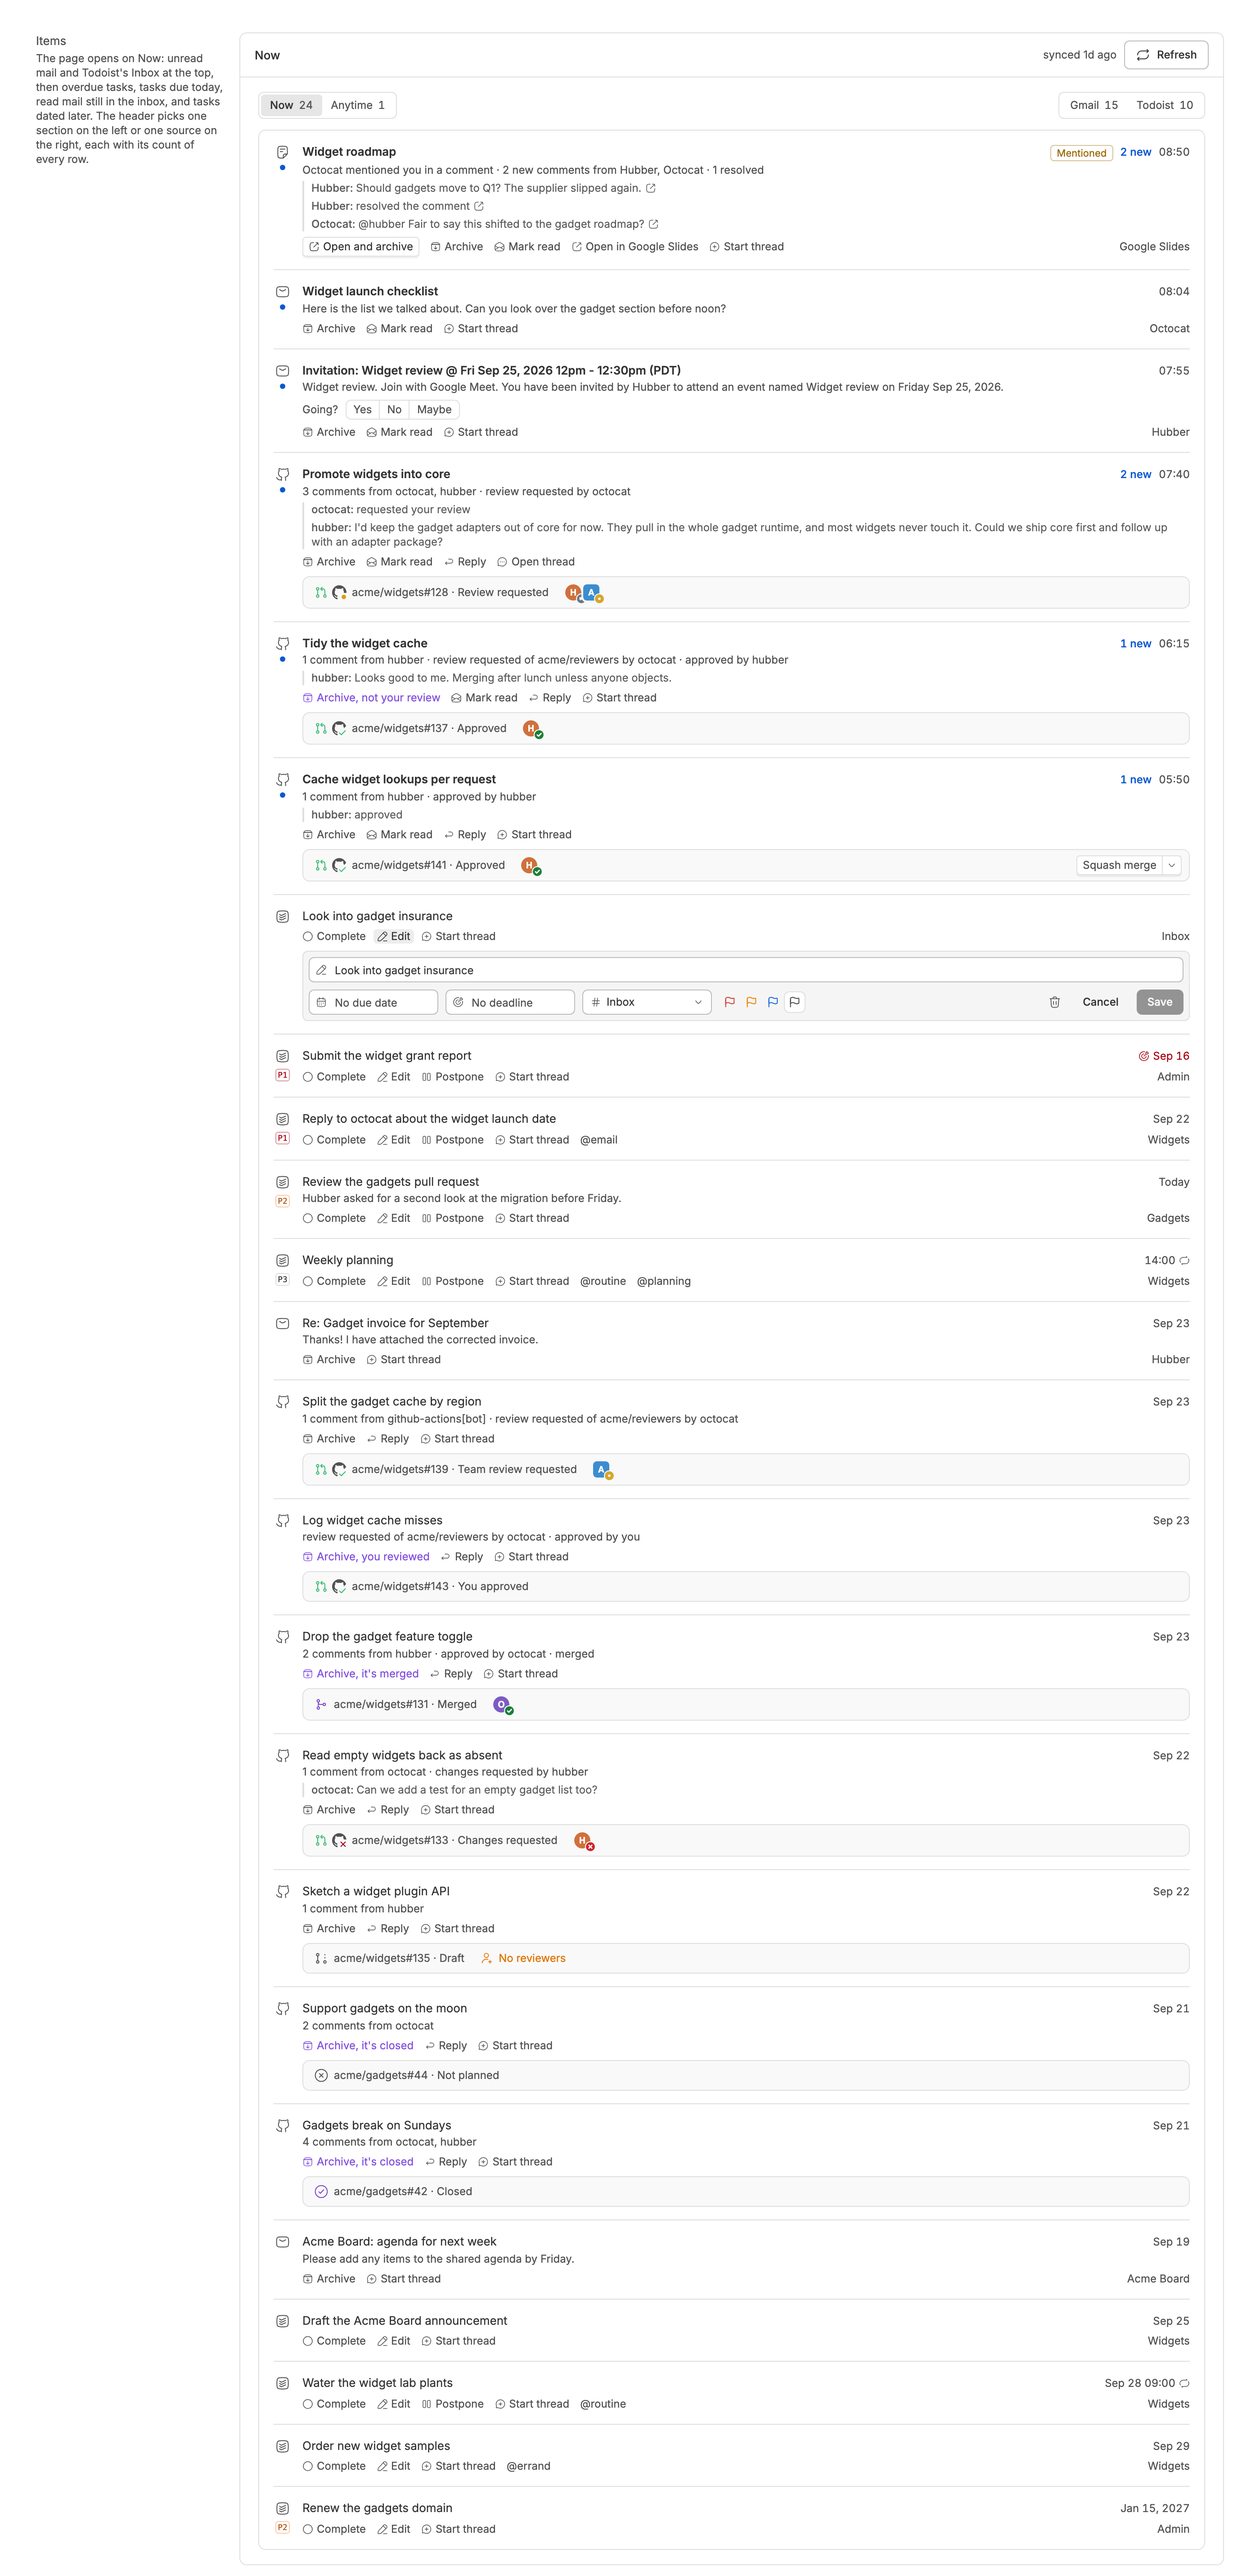
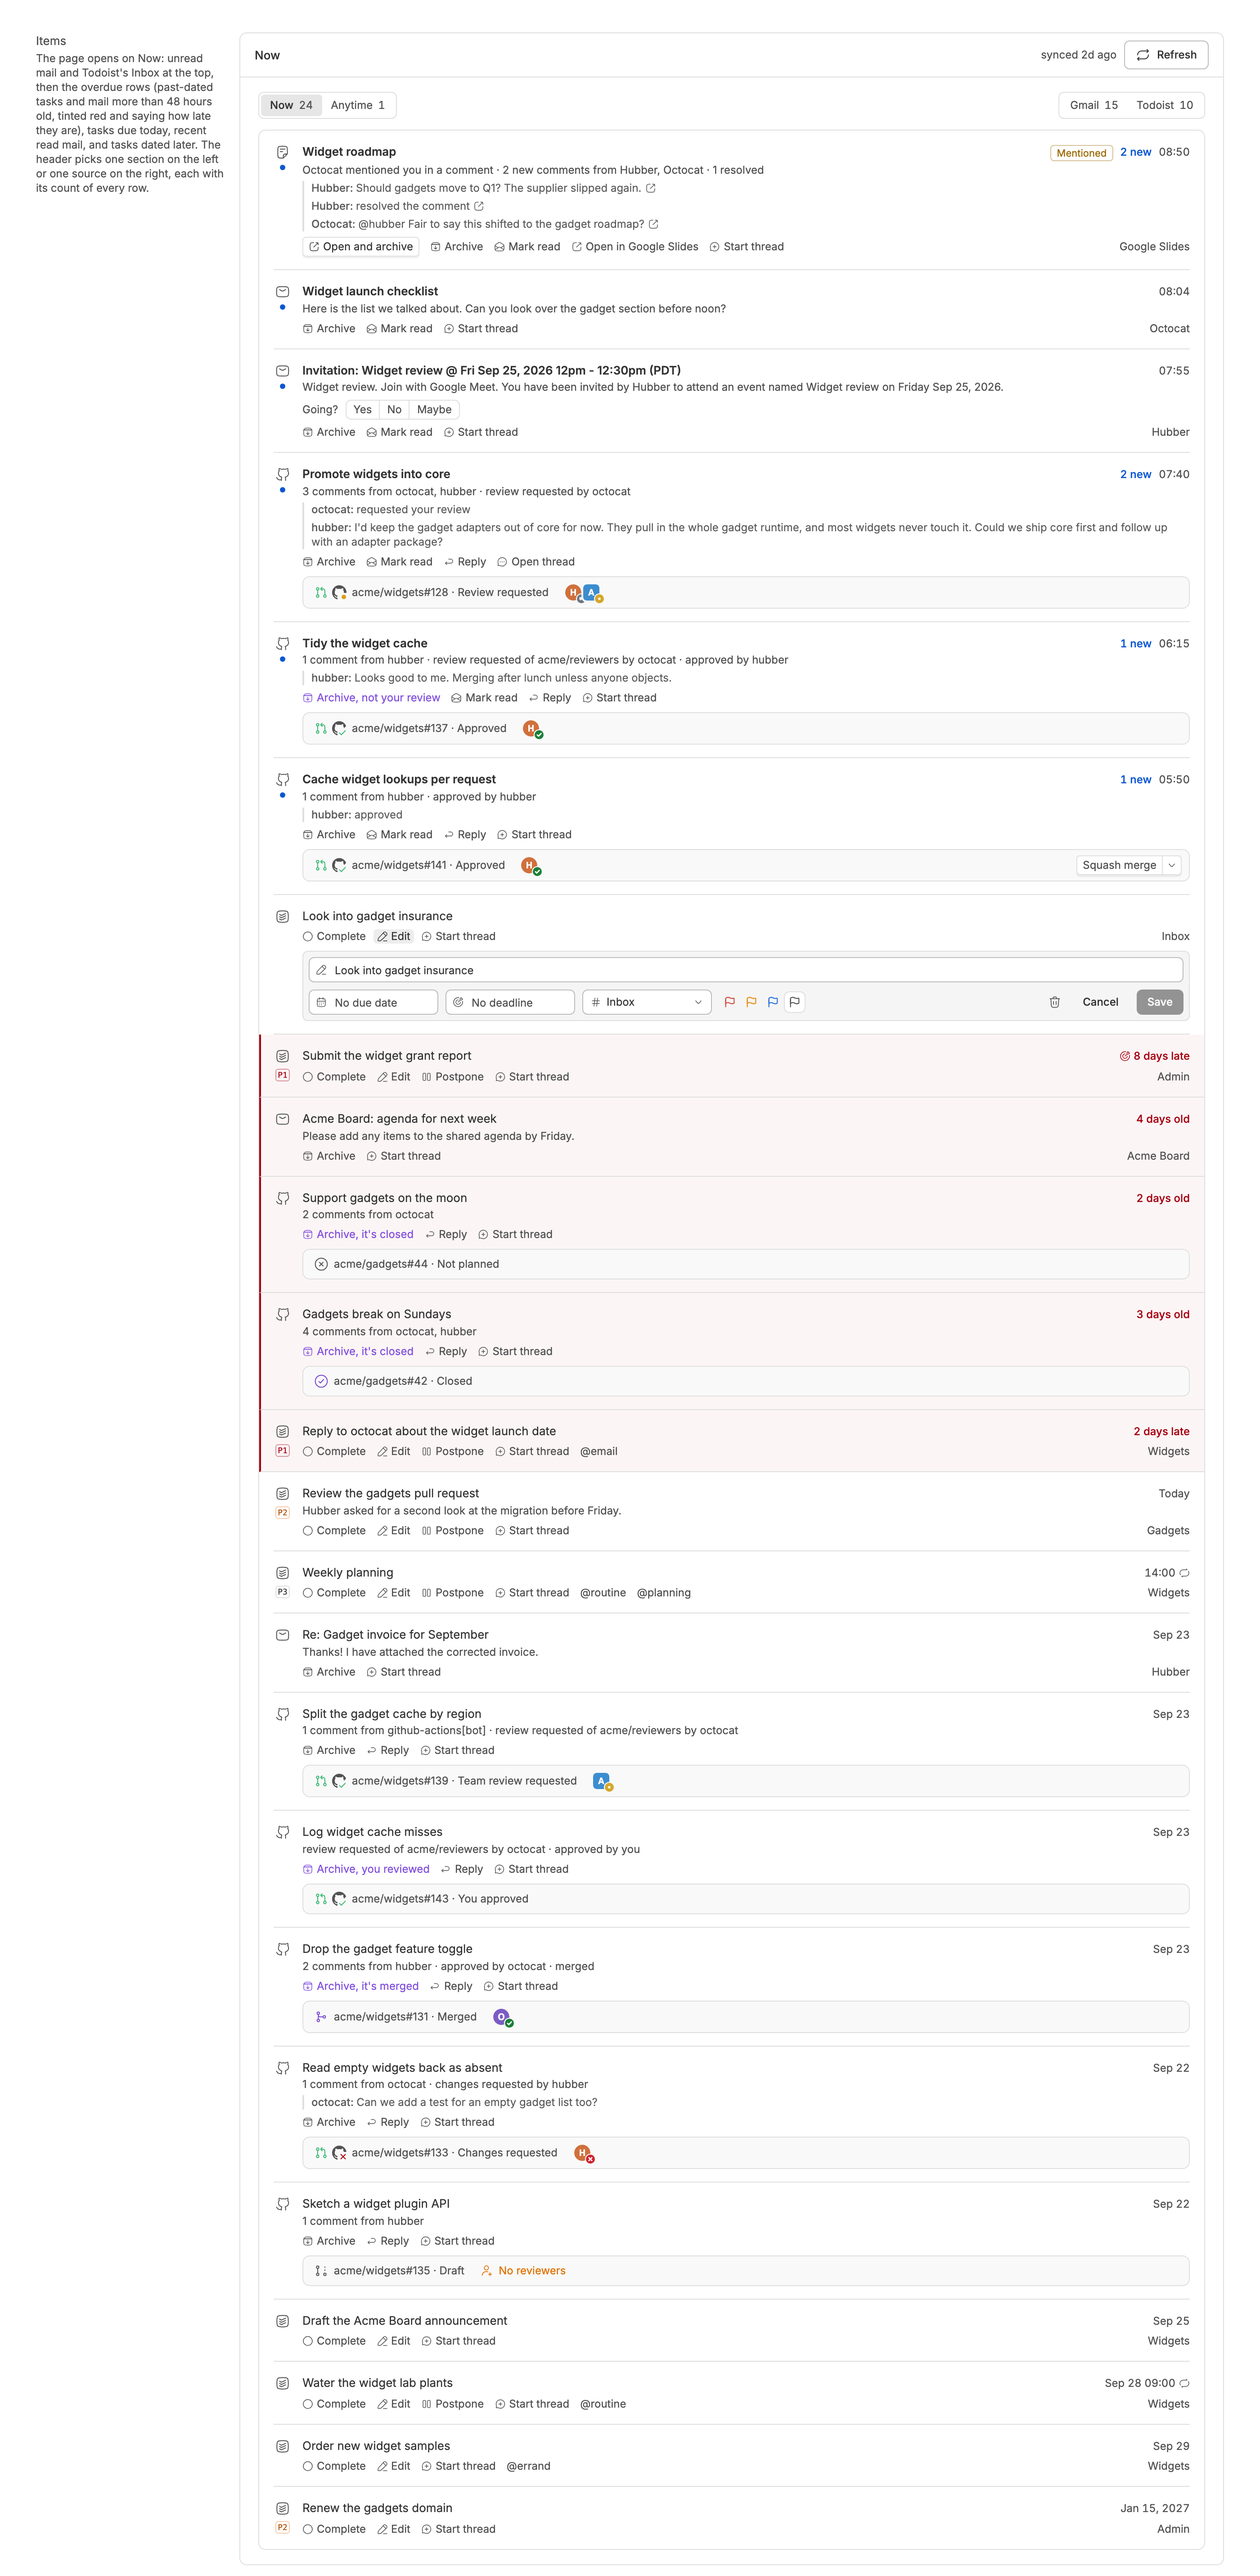
8d06407 Flag overdue rows on the Now page in red
danielbachhuber/bb-plugins@8d06407e42c154b8f01a4a1d61544b3cbf871609

Captured with uncommitted changes in the bb-plugins checkout.

diff --git a/now/README.md b/now/README.md
@@ -2,7 +2,7 @@
 
 # Now
 
-One list of what needs doing now, from Todoist and your Gmail inbox, with GitHub notifications gathered per pull request or issue, showing each pull request's reviewers, and Google Docs comments per document. Complete, rename, reschedule, postpone, reprioritize, move, or delete tasks, read an email in full beside the list, archive email or mark it read, answer calendar invitations, reply on GitHub, merge your own pull requests, and start a thread from any row.
+One list of what needs doing now, from Todoist and your Gmail inbox, with GitHub notifications gathered per pull request or issue, showing each pull request's reviewers, and Google Docs comments per document. Overdue tasks, and mail left in the inbox more than two days, are tinted red and say how late they are. Complete, rename, reschedule, postpone, reprioritize, move, or delete tasks, read an email in full beside the list, archive email or mark it read, answer calendar invitations, reply on GitHub, merge your own pull requests, and start a thread from any row.
 
 Source: [`bb-plugin-now`](https://github.com/danielbachhuber/bb-plugins/tree/main/bb-plugin-now)
 
